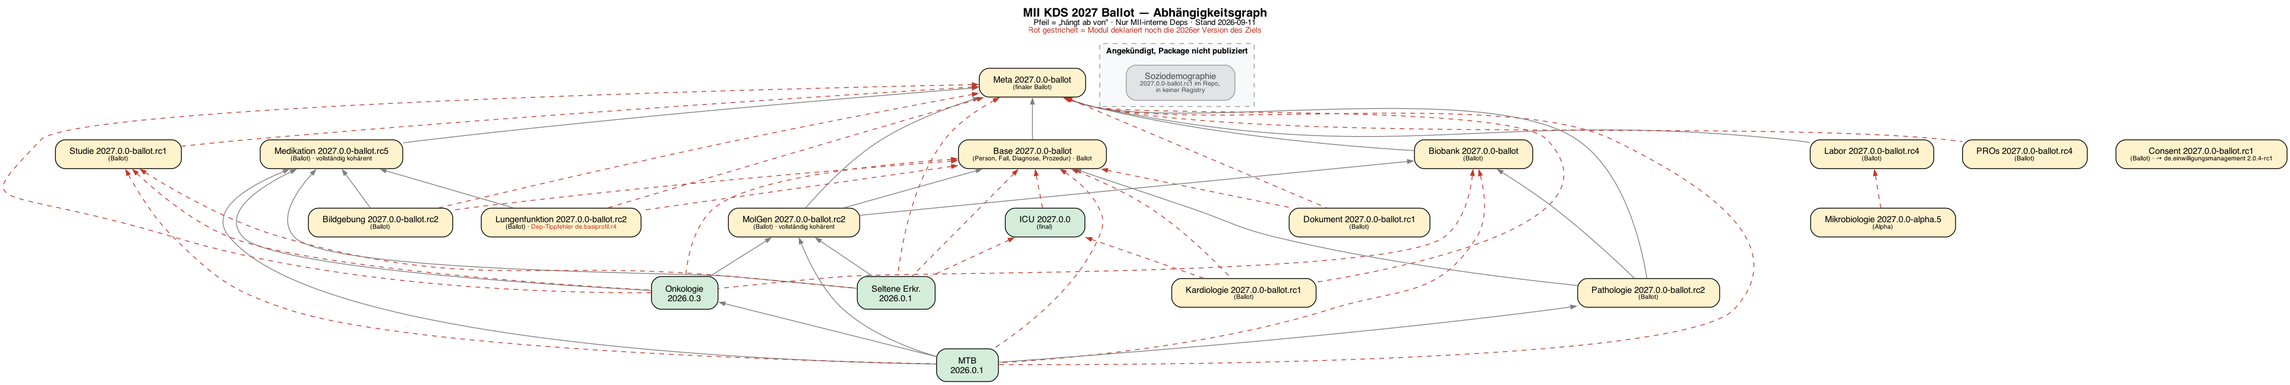
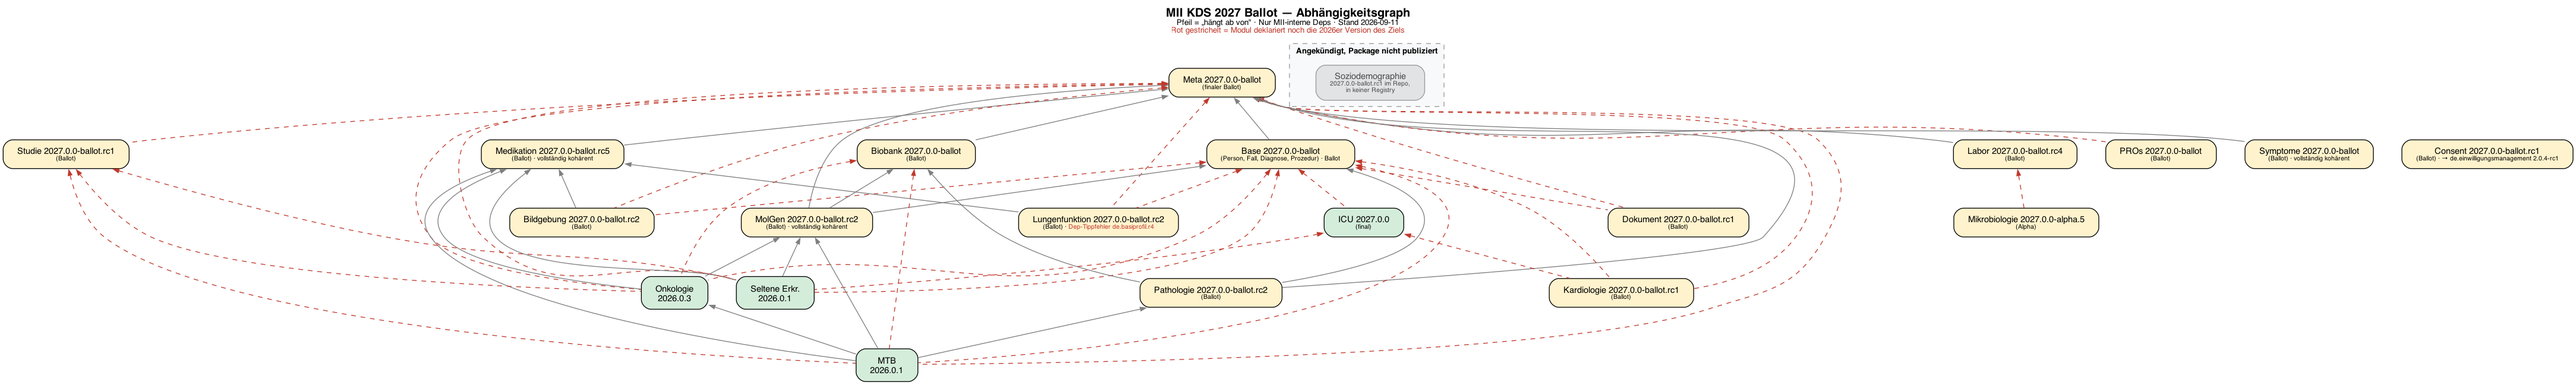
BOM 2027.0.0-ballot.5: Symptome aufgenommen, PROs final
symptom   NEU                 -> 2027.0.0-ballot
  pros      2027.0.0-ballot.rc4 -> 2027.0.0-ballot

Symptome ist neu in der BOM, die damit auf 20 Module waechst. Das Modul war
bisher aussen vor, weil es kein 2027er Paket hatte -- der Migrations-PR #37 ist
am 11.09. gemergt, master traegt jetzt 2027.0.0-ballot, Tag und Paket sind da.
Es ist mit meta 2027.0.0-ballot, basisprofil 1.6.0, THO 7.3.0 und extensions
5.3.0 vollstaendig kohaerent und hat 0 QA-Errors bei 165 Warnings -- der
sauberste Stand aller Module.

PROs hat ebenfalls die finale Ballot-Fassung veroeffentlicht, haengt aber
unveraendert an meta 2026.0.x. Fuenf RCs und das finale Release, ohne die
Abhaengigkeit je umzustellen -- sie ist seit 2026.7.0 dieselbe.

Release-Gate: keine harten Fehler. Paket baut mit 1395 Ressourcen ohne
Kollisionen.

Claude-Session: https://claude.ai/code/session_01MJTiFA65uRigwFL6K5K7D4

diff --git a/input/pagecontent/index.md b/input/pagecontent/index.md
@@ -24,6 +24,8 @@ Während das [Meta-Modul](https://github.com/medizininformatik-initiative/kernda
 >
 > **Meta ist in der finalen Ballot-Fassung**: `2027.0.0-ballot` vom 10.09.2026 löst `ballot.rc3` ab — 0 Errors statt 386, 182 statt 175 Ressourcen.
 >
+> **Neu in der BOM: Symptome** mit `2027.0.0-ballot` — vollständig kohärent und mit 0 QA-Errors. **PROs** ist ebenfalls final, hängt aber unverändert an Meta `2026.0.x`.
+>
 > **Base und Biobank sind ebenfalls in der finalen Ballot-Fassung** und verweisen auf Meta `2027.0.0-ballot`. Biobank hat dabei den Umzug auf **MIABIS 1.3.0** vollzogen.
 >
 > Vollständig auf 2027er Abhängigkeiten sind damit **Base, Biobank, Laborbefund, Medikation, MolGen und Pathologie**.
@@ -65,10 +67,11 @@ Während das [Meta-Modul](https://github.com/medizininformatik-initiative/kernda
 | Onkologie | `de.medizininformatikinitiative.kerndatensatz.onkologie` | 2026.0.3 | [kerndatensatzmodul-onkologie](https://github.com/medizininformatik-initiative/kerndatensatzmodul-onkologie) | [v2026.0.3](https://github.com/medizininformatik-initiative/kerndatensatzmodul-onkologie/releases/tag/v2026.0.3) (2026-03-29) |
 | Seltene Erkrankungen | `de.medizininformatikinitiative.kerndatensatz.seltene` | 2026.0.1 | [kerndatensatzmodul-seltene-erkrankungen](https://github.com/medizininformatik-initiative/kerndatensatzmodul-seltene-erkrankungen) | [v2026.0.1](https://github.com/medizininformatik-initiative/kerndatensatzmodul-seltene-erkrankungen/releases/tag/v2026.0.1) |
 | Molekulares Tumorboard | `de.medizininformatikinitiative.kerndatensatz.mtb` | 2026.0.1 | [kerndatensatzmodul-molekulares-tumorboard](https://github.com/medizininformatik-initiative/kerndatensatzmodul-molekulares-tumorboard) | [v2026.0.1](https://github.com/medizininformatik-initiative/kerndatensatzmodul-molekulares-tumorboard/releases/tag/v2026.0.1) (2026-03-30) |
-| PROs | `de.medizininformatikinitiative.kerndatensatz.pros` | 2027.0.0-ballot.rc4 | [kerndatensatzmodul-proms](https://github.com/medizininformatik-initiative/kerndatensatzmodul-proms) | nur als Package publiziert |
+| PROs | `de.medizininformatikinitiative.kerndatensatz.pros` | 2027.0.0-ballot | [kerndatensatzmodul-proms](https://github.com/medizininformatik-initiative/kerndatensatzmodul-proms) | nur als Package publiziert |
 | Consent | `de.medizininformatikinitiative.kerndatensatz.consent` | 2027.0.0-ballot.rc1 | [kerndatensatzmodul-consent](https://github.com/medizininformatik-initiative/kerndatensatzmodul-consent) | nur als Package publiziert, kein GitHub-Release |
 | Kardiologie | `de.medizininformatikinitiative.kerndatensatz.kardiologie` | 2027.0.0-ballot.rc1 | [kerndatensatz-kardiologie](https://github.com/medizininformatik-initiative/kerndatensatz-kardiologie) | [v2027.0.0-ballot.rc1](https://github.com/medizininformatik-initiative/kerndatensatz-kardiologie/releases/tag/v2027.0.0-ballot.rc1) (2026-08-31) |
 | Lungenfunktion | `de.medizininformatikinitiative.kerndatensatz.lungenfunktion` | 2027.0.0-ballot.rc2 | [kerndatensatz-lungenfunktion](https://github.com/medizininformatik-initiative/kerndatensatz-lungenfunktion) | nur als Package publiziert, kein GitHub-Release |
+| Symptome | `de.medizininformatikinitiative.kerndatensatz.symptom` | 2027.0.0-ballot | [kerndatensatzmodul-symptome](https://github.com/medizininformatik-initiative/kerndatensatzmodul-symptome) | [v2027.0.0-ballot](https://github.com/medizininformatik-initiative/kerndatensatzmodul-symptome/releases/tag/v2027.0.0-ballot) (2026-09-11) |
 
 ### Angekündigt, noch nicht publiziert
 
@@ -131,21 +134,21 @@ Sobald das Paket auf packages.fhir.org verfügbar ist, genügt eine einzelne Abh
 
 ```yaml
 dependencies:
-  de.medizininformatikinitiative.kerndatensatz.complete: 2027.0.0-ballot.4
+  de.medizininformatikinitiative.kerndatensatz.complete: 2027.0.0-ballot.5
 ```
 
-Alle 19 Modul-Dependencies und die 8 gepinnten externen Pakete werden automatisch von der FHIR Package Registry aufgelöst und heruntergeladen.
+Alle 20 Modul-Dependencies und die 8 gepinnten externen Pakete werden automatisch von der FHIR Package Registry aufgelöst und heruntergeladen.
 
 ### Manuelle Installation
 
-Solange das Paket noch nicht auf packages.fhir.org verfügbar ist, kann es vom [GitHub Release](https://github.com/medizininformatik-initiative/kerndatensatz-complete/releases/tag/v2027.0.0-ballot.4) heruntergeladen und lokal installiert werden:
+Solange das Paket noch nicht auf packages.fhir.org verfügbar ist, kann es vom [GitHub Release](https://github.com/medizininformatik-initiative/kerndatensatz-complete/releases/tag/v2027.0.0-ballot.5) heruntergeladen und lokal installiert werden:
 
 ```bash
 # Package herunterladen
-curl -LO https://github.com/medizininformatik-initiative/kerndatensatz-complete/releases/download/v2027.0.0-ballot.4/de.medizininformatikinitiative.kerndatensatz.complete-2027.0.0-ballot.4.tgz
+curl -LO https://github.com/medizininformatik-initiative/kerndatensatz-complete/releases/download/v2027.0.0-ballot.5/de.medizininformatikinitiative.kerndatensatz.complete-2027.0.0-ballot.5.tgz
 
 # In den lokalen FHIR-Cache installieren
-fhir install de.medizininformatikinitiative.kerndatensatz.complete-2027.0.0-ballot.4.tgz
+fhir install de.medizininformatikinitiative.kerndatensatz.complete-2027.0.0-ballot.5.tgz
 ```
 
 Danach kann das Paket wie gewohnt als Dependency referenziert werden. Alle weiteren Module werden automatisch von packages.fhir.org aufgelöst.
